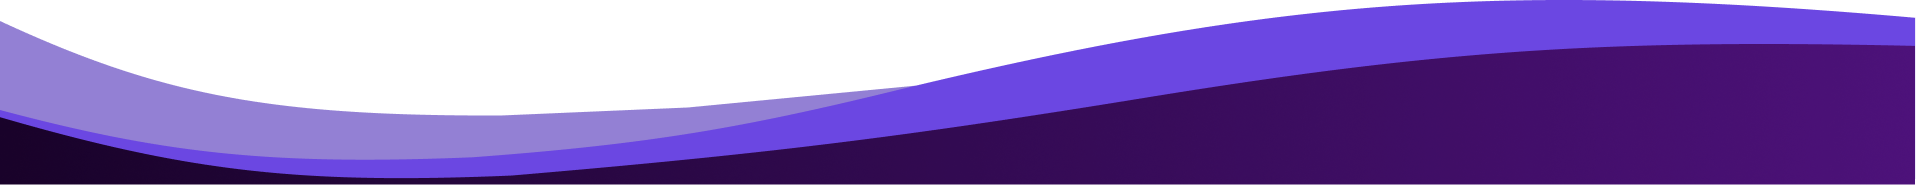
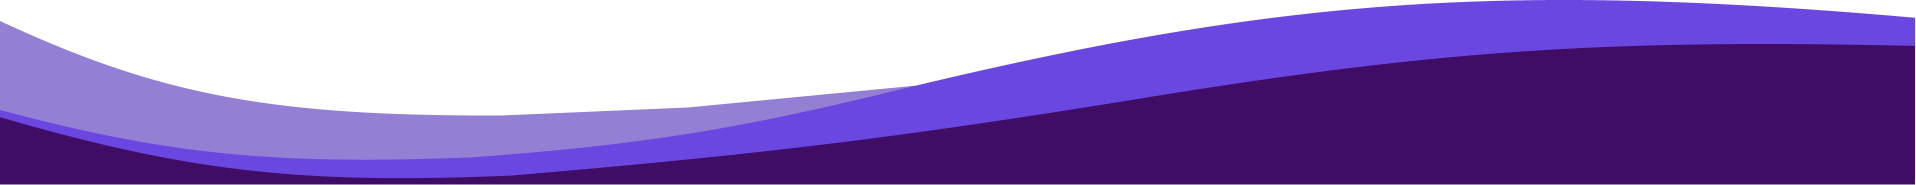
footer curve

Changed region(s): [[0.0, 0.6486, 0.4619, 1.0]]

diff --git a/src/app/footer/footer.component.html b/src/app/footer/footer.component.html
@@ -1,14 +1,14 @@
 <div class="footer curve">
-  <div class="footer-top" [ngStyle]="{'background-color': themeColor}"></div>
-  <img src="/assets/footer/footerCurve.png" alt="footerCurve" class="curve-img" />
-  <div class="footer-background" >
+  <img src="/assets/footer/footerCurve.png" alt="footerCurve" />
+
+  <div class="footer-background">
     <div class="footer-content">
       <div class="row">
         <div class="col-12 col-md-4">
           <div>
             <a href="" class="navbar-brand">
               <img
-                src="/assets/header/sprintpark-web-logo.png"
+                src="assets/logo/sprintpark-web-logo.png"
                 class="logo-img"
                 alt="Sprintpark Logo"
               />
@@ -96,29 +96,30 @@
             </li>
           </ul>
         </div>
-        <div class="col-6 col-xs-12 col-md-2 lh-lg contactCol ">
+        <div class="col-6 col-xs-12 col-md-2 contactCol">
           <h4 class="footer-header">Contact Info</h4>
           <ul class="nav flex-column">
-            <li >
+            <li>
               <a href="/contactUs#contactContainer">
-                <i class="fa fa-phone fa-lg "></i>
+                <i class="fa fa-phone fa-lg"></i>
                 <p>+1(860) 566 9894</p>
               </a>
             </li>
             <!-- Email Section -->
             <li>
               <a href="/contactUs#contactContainer">
-                <i class="fa fa-envelope fa-lg "></i>
+                <i class="fa fa-envelope-o fa-lg"></i>
                 <p>
                   info&#64;sprintpark.com <br />
                   hr&#64;sprintpark.com
                 </p>
               </a>
             </li>
+
             <!-- Address Section -->
             <li>
               <a href="/contactUs#mapContainer" target="_blank">
-                <i class="fa fa-map-marker fa-lg "></i>
+                <i class="fa fa-map-marker fa-lg"></i>
                 <p>85 Felt Rd, Suite #604, South Windsor, CT 06074</p>
               </a>
             </li>

diff --git a/src/app/footer/footer.component.scss b/src/app/footer/footer.component.scss
@@ -1,39 +1,12 @@
 .footer {
-   position: relative;
-  .footer-top {
-  position: absolute;
-   height: 140px;
-  width: 100%;
-  background-color: inherit;
-    z-index: 0;
-}
-.curve-img {
-  position: relative;
-  width: 100%;
-  display: block;
-  z-index: 2;
-}
-.footer-top {
-  z-index: 1;
-}
-.footer-background {
-  background: #fff;
-  padding: 40px 20px;
-  position: relative;
-  z-index: 2;
-}
   img {
     max-width: 100%;
     display: block;
   }
+
   .footer-background {
-    // Gradient from top left to top right, fading as it goes right
-    background-image: linear-gradient(
-      to right,
-      #1f0334 0%,
-      #3f0d66 50%,
-      #601698 100%
-    );
+    background-color: #3f0d66;
+    margin-top: -5px;
   }
 
   .footer-content {
@@ -71,16 +44,12 @@
     margin-bottom: 10.8px;
     padding-bottom: 5px;
     color: white;
-    
   }
-  .li {
-    line-height: 200%;
-  }
+
   .contactCol {
     li {
       display: flex;
       align-items: center;
-    
 
       a {
         display: flex;
@@ -108,7 +77,7 @@
     .social-icons {
       display: flex;
       justify-content: space-between;
-      gap: 40px;
+      gap: 3px;
     }
     img {
       width: 30px;
@@ -126,7 +95,6 @@
           display: flex;
           gap: 10px;
           align-items: center;
-         
 
           a {
             img {

diff --git a/src/app/header/header.component.ts b/src/app/header/header.component.ts
@@ -1,27 +1,24 @@
 import { CommonModule } from '@angular/common';
-import { Component, EventEmitter, HostListener, Output } from '@angular/core';
- 
+import { Component, HostListener } from '@angular/core';
+
 @Component({
   selector: 'app-header',
   imports: [CommonModule],
   templateUrl: './header.component.html',
-  styleUrls: ['./header.component.scss'], // <-- fix here
+  styleUrls: ['./header.component.scss'],
 })
- 
 export class HeaderComponent {
-  isScrolled = false;
-  modalService: any;
- 
-  onAboutClick(){
-const section=document.getElementById('about-us');
-if(section){
-  section.scrollIntoView({behavior:'smooth',block:'start'});
-}
+  public isScrolled = false;
+  public modalService: any;
+
+  public onAboutClick() {
+    const section = document.getElementById('about-us');
+    if (section) {
+      section.scrollIntoView({ behavior: 'smooth', block: 'start' });
+    }
   }
   @HostListener('window:scroll', [])
   onWindowScroll() {
     this.isScrolled = window.scrollY > 100;
   }
- 
- 
 }

diff --git a/src/app/footer/footer.component.ts b/src/app/footer/footer.component.ts
@@ -7,15 +7,15 @@ import { filter } from 'rxjs/operators';
   selector: 'app-footer',
   imports: [NgStyle],
   templateUrl: './footer.component.html',
-  styleUrl: './footer.component.scss'
+  styleUrl: './footer.component.scss',
 })
 export class FooterComponent implements OnInit {
- @Input() themeColor: string = '#ffffff';
-constructor(private router: Router, private route: ActivatedRoute) {}
+  @Input() themeColor: string = '#ffffff';
+  constructor(private router: Router, private route: ActivatedRoute) {}
 
   ngOnInit(): void {
     this.router.events
-      .pipe(filter(event => event instanceof NavigationEnd))
+      .pipe(filter((event) => event instanceof NavigationEnd))
       .subscribe(() => {
         let child = this.route.firstChild;
         while (child?.firstChild) {

diff --git a/src/app/header/header.component.scss b/src/app/header/header.component.scss
@@ -25,6 +25,7 @@
   /* Nav link underline animation */
   .nav-link {
     position: relative;
+    cursor: pointer;
 
     &::after {
       content: "";
